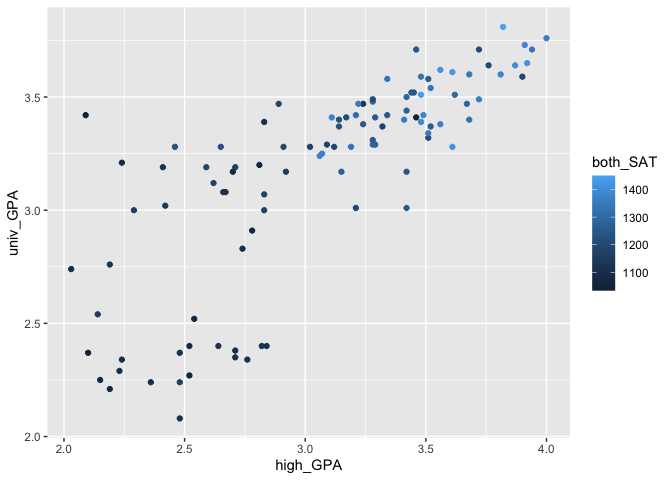
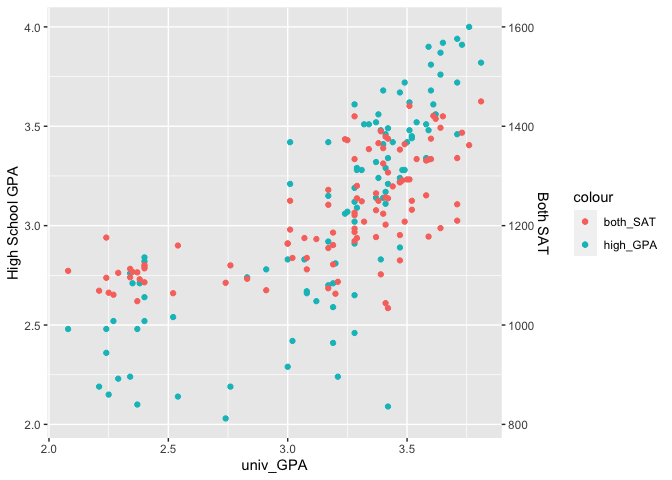
Fix challenge 10

diff --git a/challenges/c10-sat-assignment.md b/challenges/c10-sat-assignment.md
@@ -254,8 +254,15 @@ df_composite <-
 ``` r
 ## TODO:
 df_composite %>% 
-  ggplot(aes( high_GPA, univ_GPA, color = both_SAT )) + 
-  geom_point()
+  ggplot(aes( x = univ_GPA)) + 
+  geom_point(aes(y = high_GPA, color = "high_GPA")) +
+  geom_point(aes(y = both_SAT *(4/1600), color = "both_SAT")) +
+  scale_y_continuous(
+    # Features of the first axis
+    name = "High School GPA",
+    # Add a second axis and specify its features
+    sec.axis = sec_axis( trans=~.*(1600/4), name="Both SAT")
+  ) 
 ```
 
 ![](c10-sat-assignment_files/figure-gfm/q2-task-1.png)<!-- -->
@@ -370,7 +377,8 @@ cor.test(formula = ~ both_SAT + univ_GPA,
 **Observations**:
 
 - Which correlations are significantly nonzero?
-  - Both correlations are nonzero at around 0.68 to 0.78
+  - Both correlations are nonzero because their confidence interval does
+    not include 0.
 - Which of `high_GPA` and `both_SAT` seems to be more strongly
   correlated with `univ_GPA`?
   - High_GPA.
@@ -519,6 +527,19 @@ fit_basic %>%
     ## 1 (Intercept) -0.172    0.352       -0.487 6.27e- 1 -1.10      0.753  
     ## 2 both_SAT     0.00274  0.000287     9.53  8.05e-16  0.00198   0.00349
 
+``` r
+##Checking results
+rsquare(fit_basic, df_train)
+```
+
+    ## [1] 0.4467457
+
+``` r
+rsquare(fit_basic, df_validate)
+```
+
+    ## [1] 0.5544037
+
 **Observations**:
 
 - What is the confidence interval on the coefficient of `both_SAT`? Is
@@ -556,17 +577,32 @@ fit_mid %>%
     ## 2 high_GPA    0.541     0.0837        6.47 0.00000000353  0.322      0.761  
     ## 3 both_SAT    0.000792  0.000387      2.05 0.0432        -0.000224   0.00181
 
+``` r
+#Checking results
+rsquare(fit_mid, df_train)
+```
+
+    ## [1] 0.604069
+
+``` r
+rsquare(fit_mid, df_validate)
+```
+
+    ## [1] 0.6918107
+
 **Observations**:
 
 - How well do these models perform, compared to the one you built in q6?
-  - The models performs a lot better.
+  - The models performs a lot better because the r square values are
+    higher.
 - What is the confidence interval on the coefficient of `both_SAT` when
   including `high_GPA` as a predictor?? Is this coefficient
   significantly different from zero?
   - The confidence interval was -0.000223 - .0018. The coefficient could
     be zero yet it could also different from zero.
 - How do the hypothesis test results compare with the results in q6?
-  - The hypothesis test results are better than the results in q6.
+  - The hypothesis test results are better than the results in q6
+    because the r sqaure values are higher in the hypothesis than q6.
 
 ## Synthesize
 
